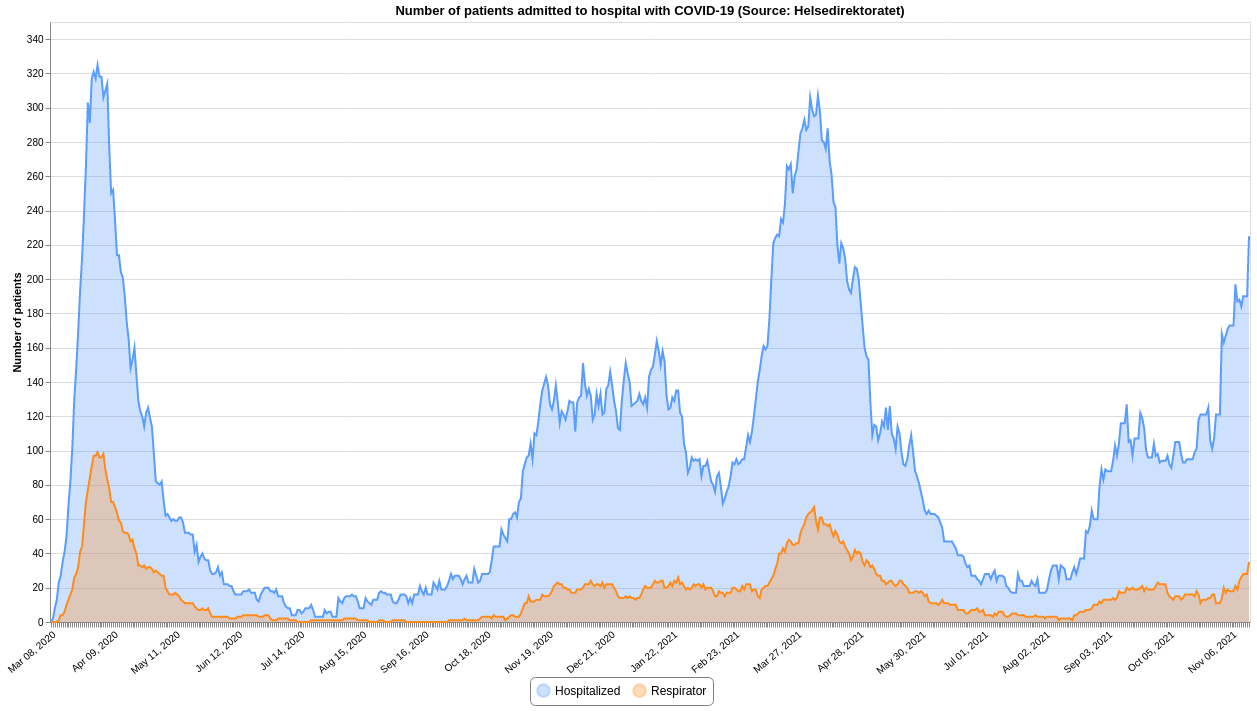
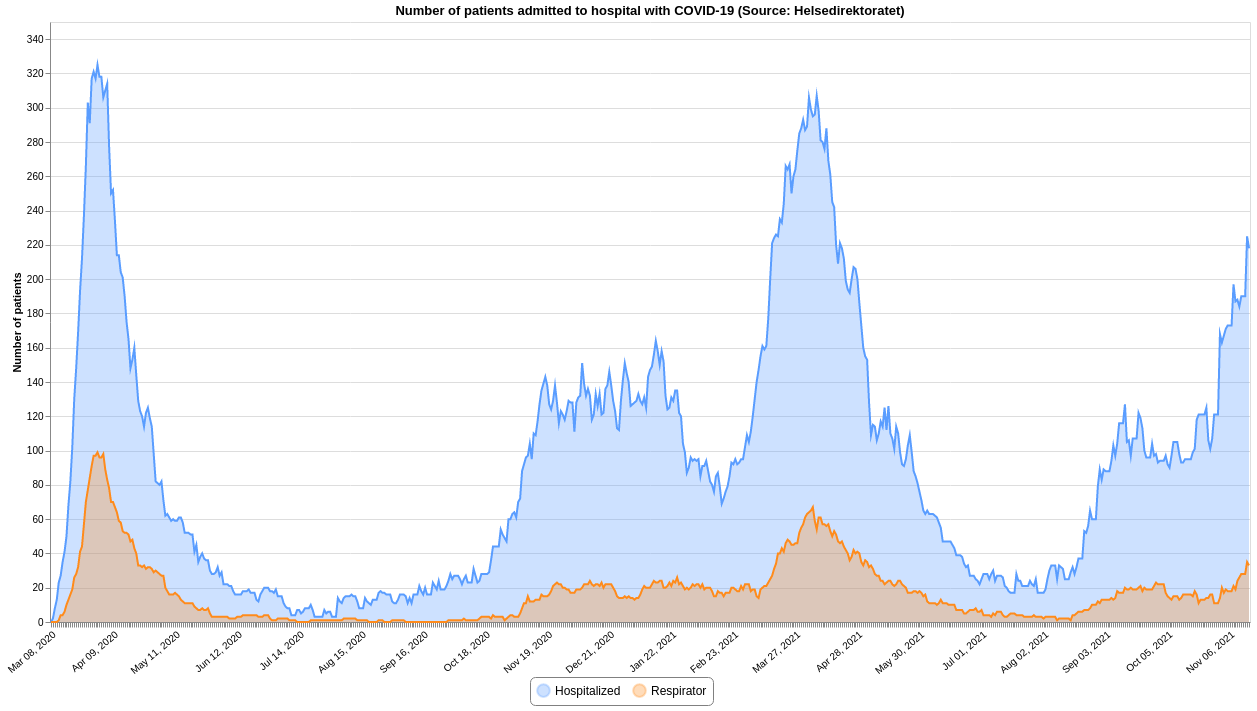
Updated 2021-11-16 12:51

diff --git a/README.md b/README.md
@@ -12,7 +12,7 @@ This repository contains datasets of daily time-series data related to COVID-19 
 | :--- | :--- | :--- | :--- | :--- |
 |[Confirmed](#confirmedcsv)|FHI / MSIS|2021-11-16 00:20:47+01:00|[<center>csv</center>](https://raw.githubusercontent.com/frefrik/covid19norge-data/main/data/confirmed.csv)|[<center>preview</center>](data/confirmed.csv)|
 |[Dead](#deadcsv)|FHI|2021-11-15 13:20:59+01:00|[<center>csv</center>](https://raw.githubusercontent.com/frefrik/covid19norge-data/main/data/dead.csv)|[<center>preview</center>](data/dead.csv)|
-|[Hospitalized](#hospitalizedcsv)|Helsedirektoratet|2021-11-15 12:20:51+01:00|[<center>csv</center>](https://raw.githubusercontent.com/frefrik/covid19norge-data/main/data/hospitalized.csv)|[<center>preview</center>](data/hospitalized.csv)|
+|[Hospitalized](#hospitalizedcsv)|Helsedirektoratet|2021-11-16 12:50:48+01:00|[<center>csv</center>](https://raw.githubusercontent.com/frefrik/covid19norge-data/main/data/hospitalized.csv)|[<center>preview</center>](data/hospitalized.csv)|
 |[Tested](#testedcsv)|FHI|2021-11-15 13:10:48+01:00|[<center>csv</center>](https://raw.githubusercontent.com/frefrik/covid19norge-data/main/data/tested.csv)|[<center>preview</center>](data/tested.csv)|
 |[Tested Lab](#tested_labcsv)|FHI|2021-11-15 13:20:54+01:00|[<center>csv</center>](https://raw.githubusercontent.com/frefrik/covid19norge-data/main/data/tested_lab.csv)|[<center>preview</center>](data/tested_lab.csv)|
 |[Transport](#transportcsv)|FHI|2021-09-24 23:10:46+02:00|[<center>csv</center>](https://raw.githubusercontent.com/frefrik/covid19norge-data/main/data/transport.csv)|[<center>preview</center>](data/transport.csv)|
